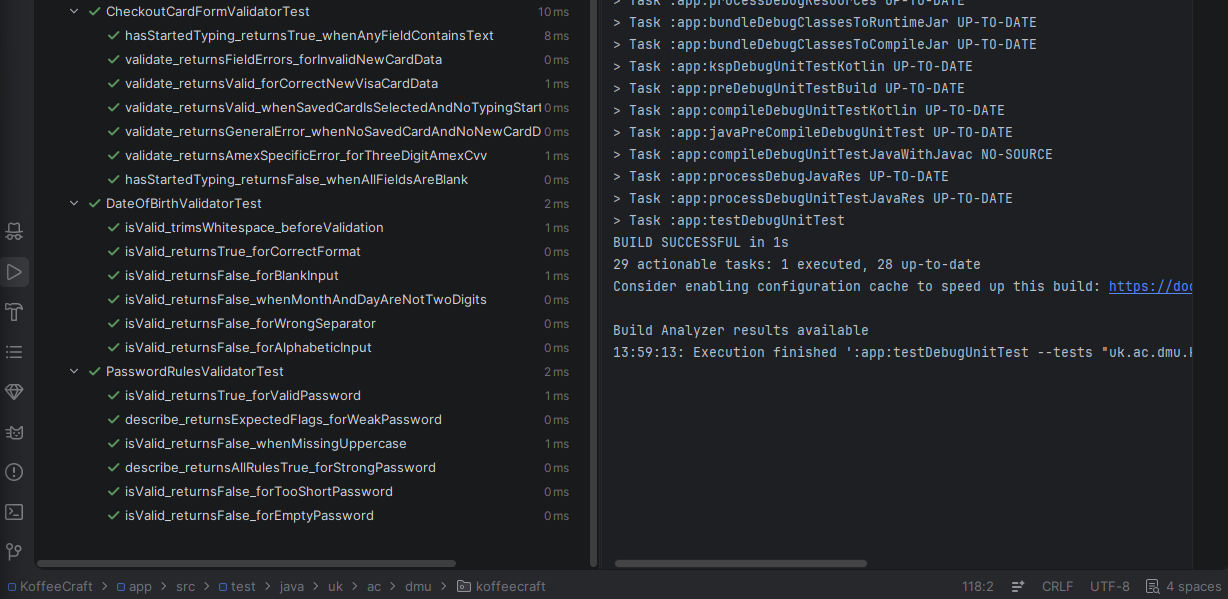
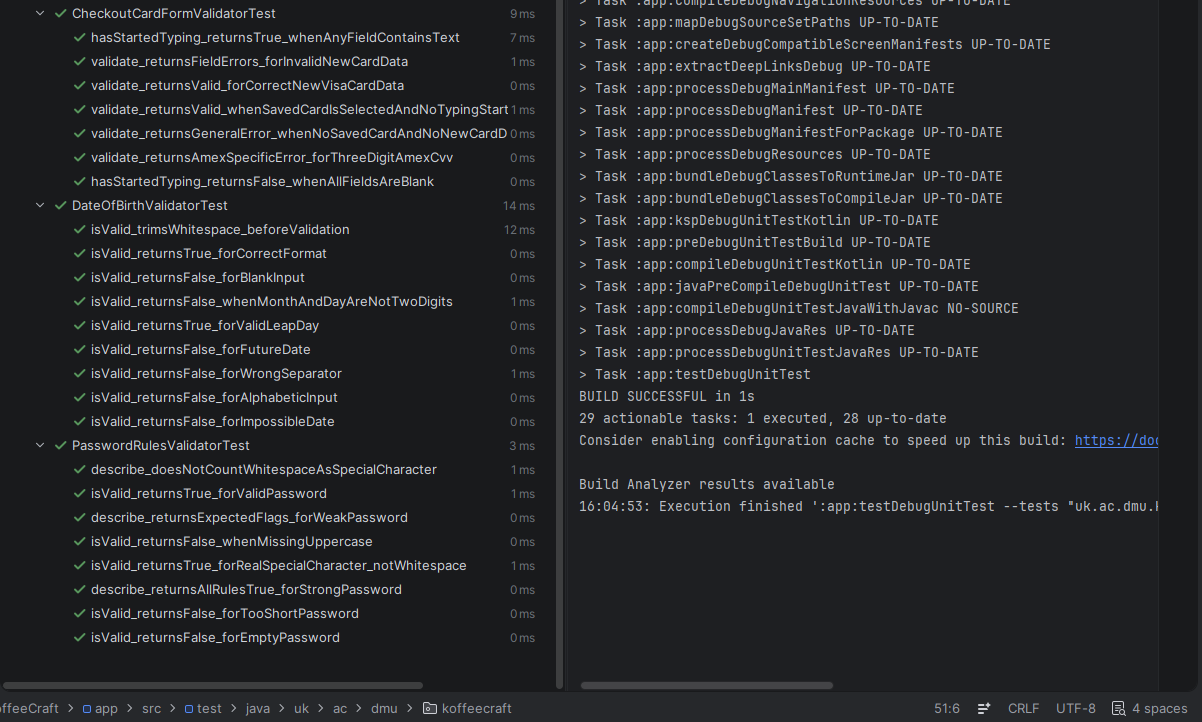
Improve password and date of birth validation and refresh Batch 1 test coverage

diff --git a/app/src/main/java/uk/ac/dmu/koffeecraft/util/validation/DateOfBirthValidator.kt b/app/src/main/java/uk/ac/dmu/koffeecraft/util/validation/DateOfBirthValidator.kt
@@ -1,10 +1,25 @@
 package uk.ac.dmu.koffeecraft.util.validation
 
+import java.time.LocalDate
+import java.time.format.DateTimeFormatter
+import java.time.format.DateTimeParseException
+import java.time.format.ResolverStyle
+
 object DateOfBirthValidator {
 
-    private val dobRegex = Regex("""^\d{4}-\d{2}-\d{2}$""")
+    private val dobFormatter: DateTimeFormatter =
+        DateTimeFormatter.ofPattern("uuuu-MM-dd")
+            .withResolverStyle(ResolverStyle.STRICT)
 
     fun isValid(value: String): Boolean {
-        return dobRegex.matches(value.trim())
+        val trimmed = value.trim()
+        if (trimmed.isBlank()) return false
+
+        return try {
+            val parsedDate = LocalDate.parse(trimmed, dobFormatter)
+            !parsedDate.isAfter(LocalDate.now())
+        } catch (_: DateTimeParseException) {
+            false
+        }
     }
 }

diff --git a/app/src/test/java/uk/ac/dmu/koffeecraft/util/validation/DateOfBirthValidatorTest.kt b/app/src/test/java/uk/ac/dmu/koffeecraft/util/validation/DateOfBirthValidatorTest.kt
@@ -35,4 +35,18 @@ class DateOfBirthValidatorTest {
     fun isValid_returnsFalse_forBlankInput() {
         assertFalse(DateOfBirthValidator.isValid(""))
     }
+    @Test
+    fun isValid_returnsFalse_forImpossibleDate() {
+        assertFalse(DateOfBirthValidator.isValid("2001-02-30"))
+    }
+
+    @Test
+    fun isValid_returnsTrue_forValidLeapDay() {
+        assertTrue(DateOfBirthValidator.isValid("2000-02-29"))
+    }
+
+    @Test
+    fun isValid_returnsFalse_forFutureDate() {
+        assertFalse(DateOfBirthValidator.isValid("2999-01-01"))
+    }
 }

diff --git a/app/src/test/java/uk/ac/dmu/koffeecraft/util/validation/PasswordRulesValidatorTest.kt b/app/src/test/java/uk/ac/dmu/koffeecraft/util/validation/PasswordRulesValidatorTest.kt
@@ -49,4 +49,16 @@ class PasswordRulesValidatorTest {
     fun isValid_returnsFalse_forEmptyPassword() {
         assertFalse(PasswordRulesValidator.isValid(""))
     }
+    @Test
+    fun describe_doesNotCountWhitespaceAsSpecialCharacter() {
+        val rules = PasswordRulesValidator.describe("Strong1 ")
+
+        assertFalse(rules.hasSpecial)
+        assertFalse(rules.isValid)
+    }
+
+    @Test
+    fun isValid_returnsTrue_forRealSpecialCharacter_notWhitespace() {
+        assertTrue(PasswordRulesValidator.isValid("Strong1!"))
+    }
 }

diff --git a/app/src/main/java/uk/ac/dmu/koffeecraft/util/validation/PasswordRulesValidator.kt b/app/src/main/java/uk/ac/dmu/koffeecraft/util/validation/PasswordRulesValidator.kt
@@ -7,7 +7,7 @@ object PasswordRulesValidator {
             hasUppercase = password.any { it.isUpperCase() },
             hasLowercase = password.any { it.isLowerCase() },
             hasDigit = password.any { it.isDigit() },
-            hasSpecial = password.any { !it.isLetterOrDigit() },
+            hasSpecial = password.any { !it.isLetterOrDigit() && !it.isWhitespace() },
             hasMinLength = password.length >= 8
         )
     }

diff --git a/docs/testing-evidence.md b/docs/testing-evidence.md
@@ -13,11 +13,16 @@ Result:
 - 43 tests passed
 
 Evidence:
-- docs/evidence/testing/unit-batch-1-overview.png
+- docs/evidence/testing/unit-batch-1-overview1.png
 - docs/evidence/testing/unit-batch-1-overview2.png
 
 Notes:
 - This batch focused on validation logic, payment input handling, rewards logic, and admin product form validation.
+
+Validation hardening update:
+- Password validation was improved so whitespace no longer counts as a special character.
+- Date of birth validation was improved to reject impossible dates and future dates.
+- Batch 1 unit tests were re-run after these validation changes.
 
 
 ## Batch 2 – Instrumented Repository Tests
